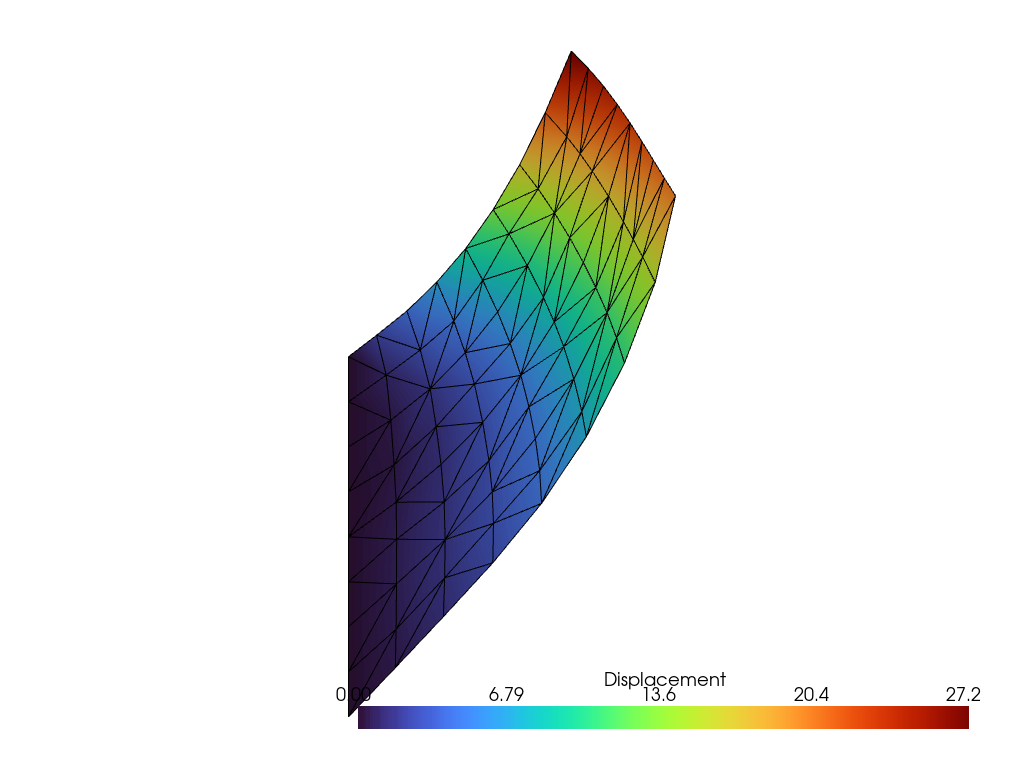
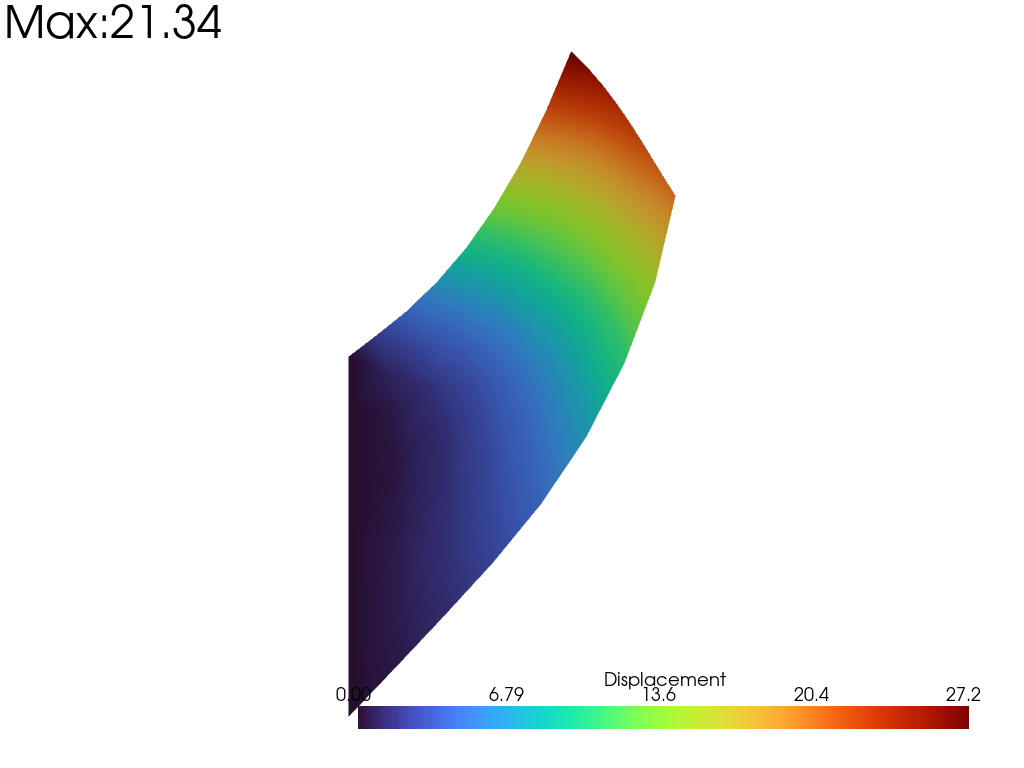
Add text to figure

Changed region(s): [[0.3438, 0.0625, 0.6562, 0.875], [0.0, 0.0, 0.2188, 0.0625]]

diff --git a/getfem-cooks-membrane.py b/getfem-cooks-membrane.py
@@ -19,12 +19,14 @@ F = 1.00/16.0  # Force density at the right boundary
 ###############################################################################
 # TODO: $B;03Q7A%a%C%7%e$NJ}8~$rB7$($i$l$J$$$+3NG'$9$k!#(B
 
-mesh = gf.Mesh("regular simplices", range(5), range(5))
+xn = 4
+yn = 4
+mesh = gf.Mesh("regular simplices", range(xn+1), range(yn+1))
 pts = mesh.pts()
 x = mesh.pts()[0, :]
 y = mesh.pts()[1, :]
-pts[0, :] = x * 44.0 / 4
-pts[1, :] = 44.0 / 4 * x + (44.0 - (44.0 - 16.0) / 4 * x) / 4 * y
+pts[0, :] = x * 44.0 / xn
+pts[1, :] = 44.0 / xn * x + (44.0 - (44.0 - 16.0) / xn * x) / yn * y
 mesh.set_pts(pts)
 
 ###############################################################################
@@ -83,11 +85,7 @@ result = pv.read("displacement.vtk")
 warped = result.warp_by_vector()
 
 plotter = pv.Plotter(off_screen=True)
-plotter.add_mesh(warped, scalars="Displacement", cmap='turbo', show_edges=True)
+plotter.add_mesh(warped, scalars="Displacement", cmap='turbo')
+plotter.add_text("Max:" + str(np.round(np.max(U), 2)str())
 plotter.show(cpos="xy", screenshot="displacement.png")
 
-###############################################################################
-# TODO: $B;2>HCM(B23.9$B$H0lCW$7$F$$$k$+3NG'$9$k!#(B
-print(U)
-
-print(U)
